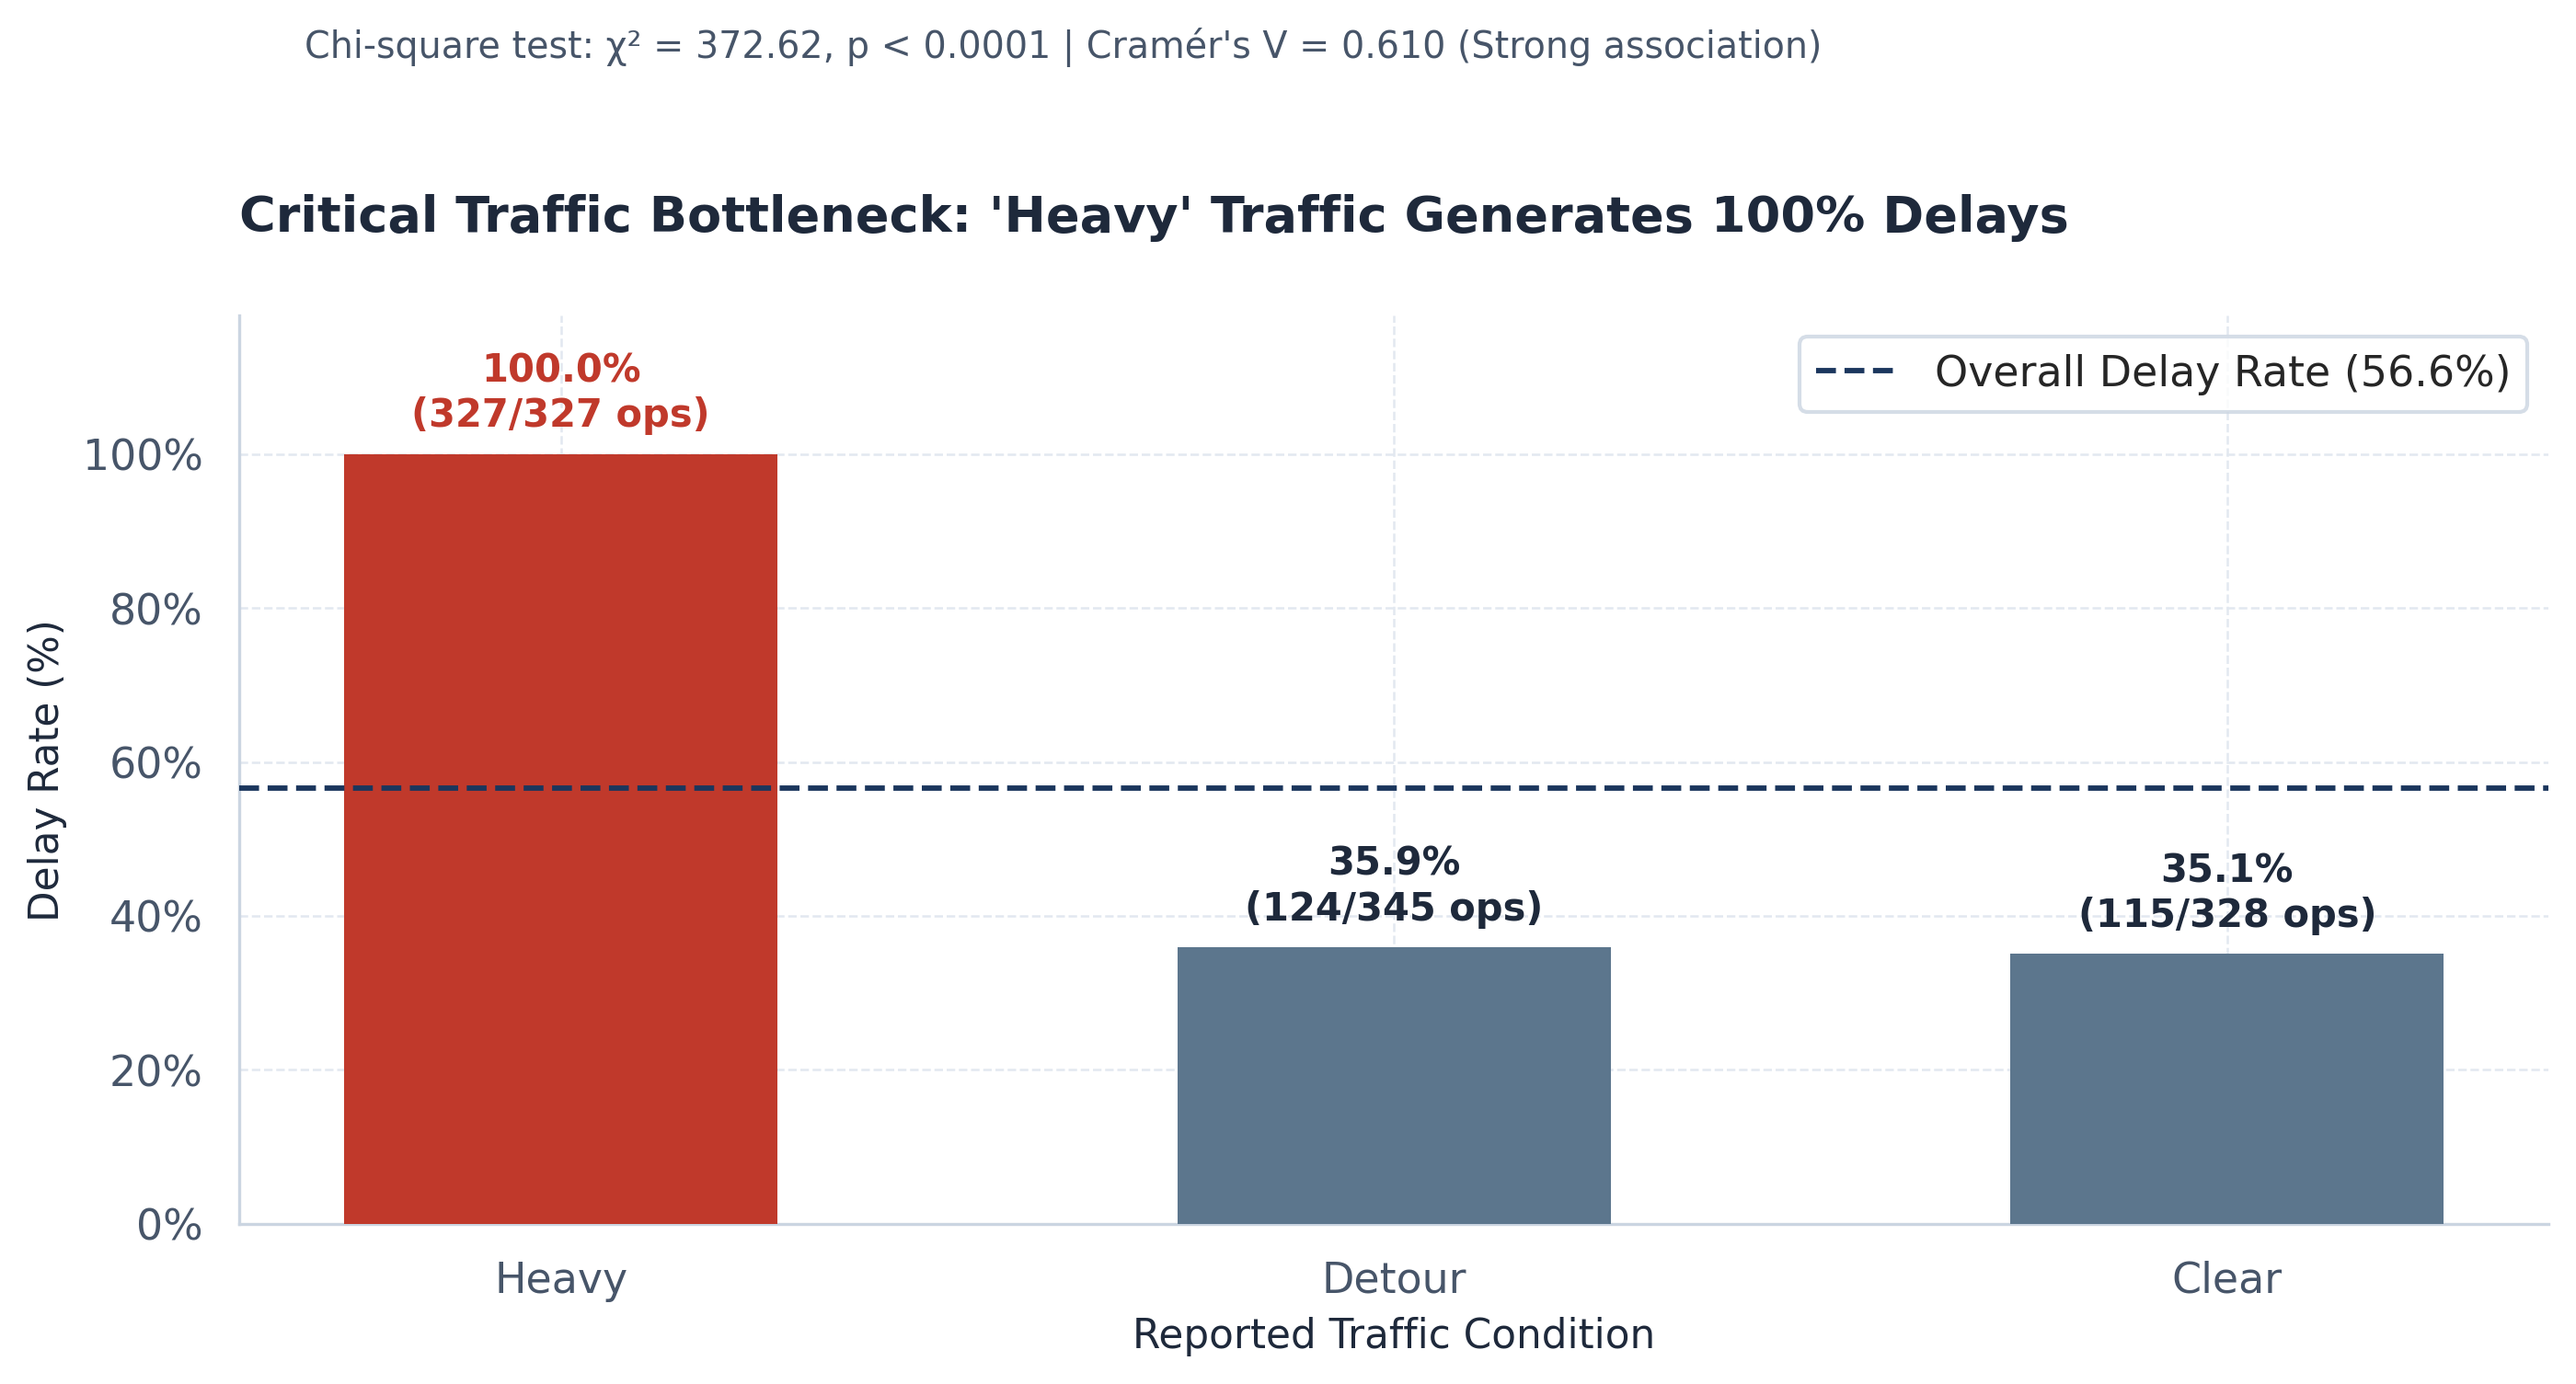
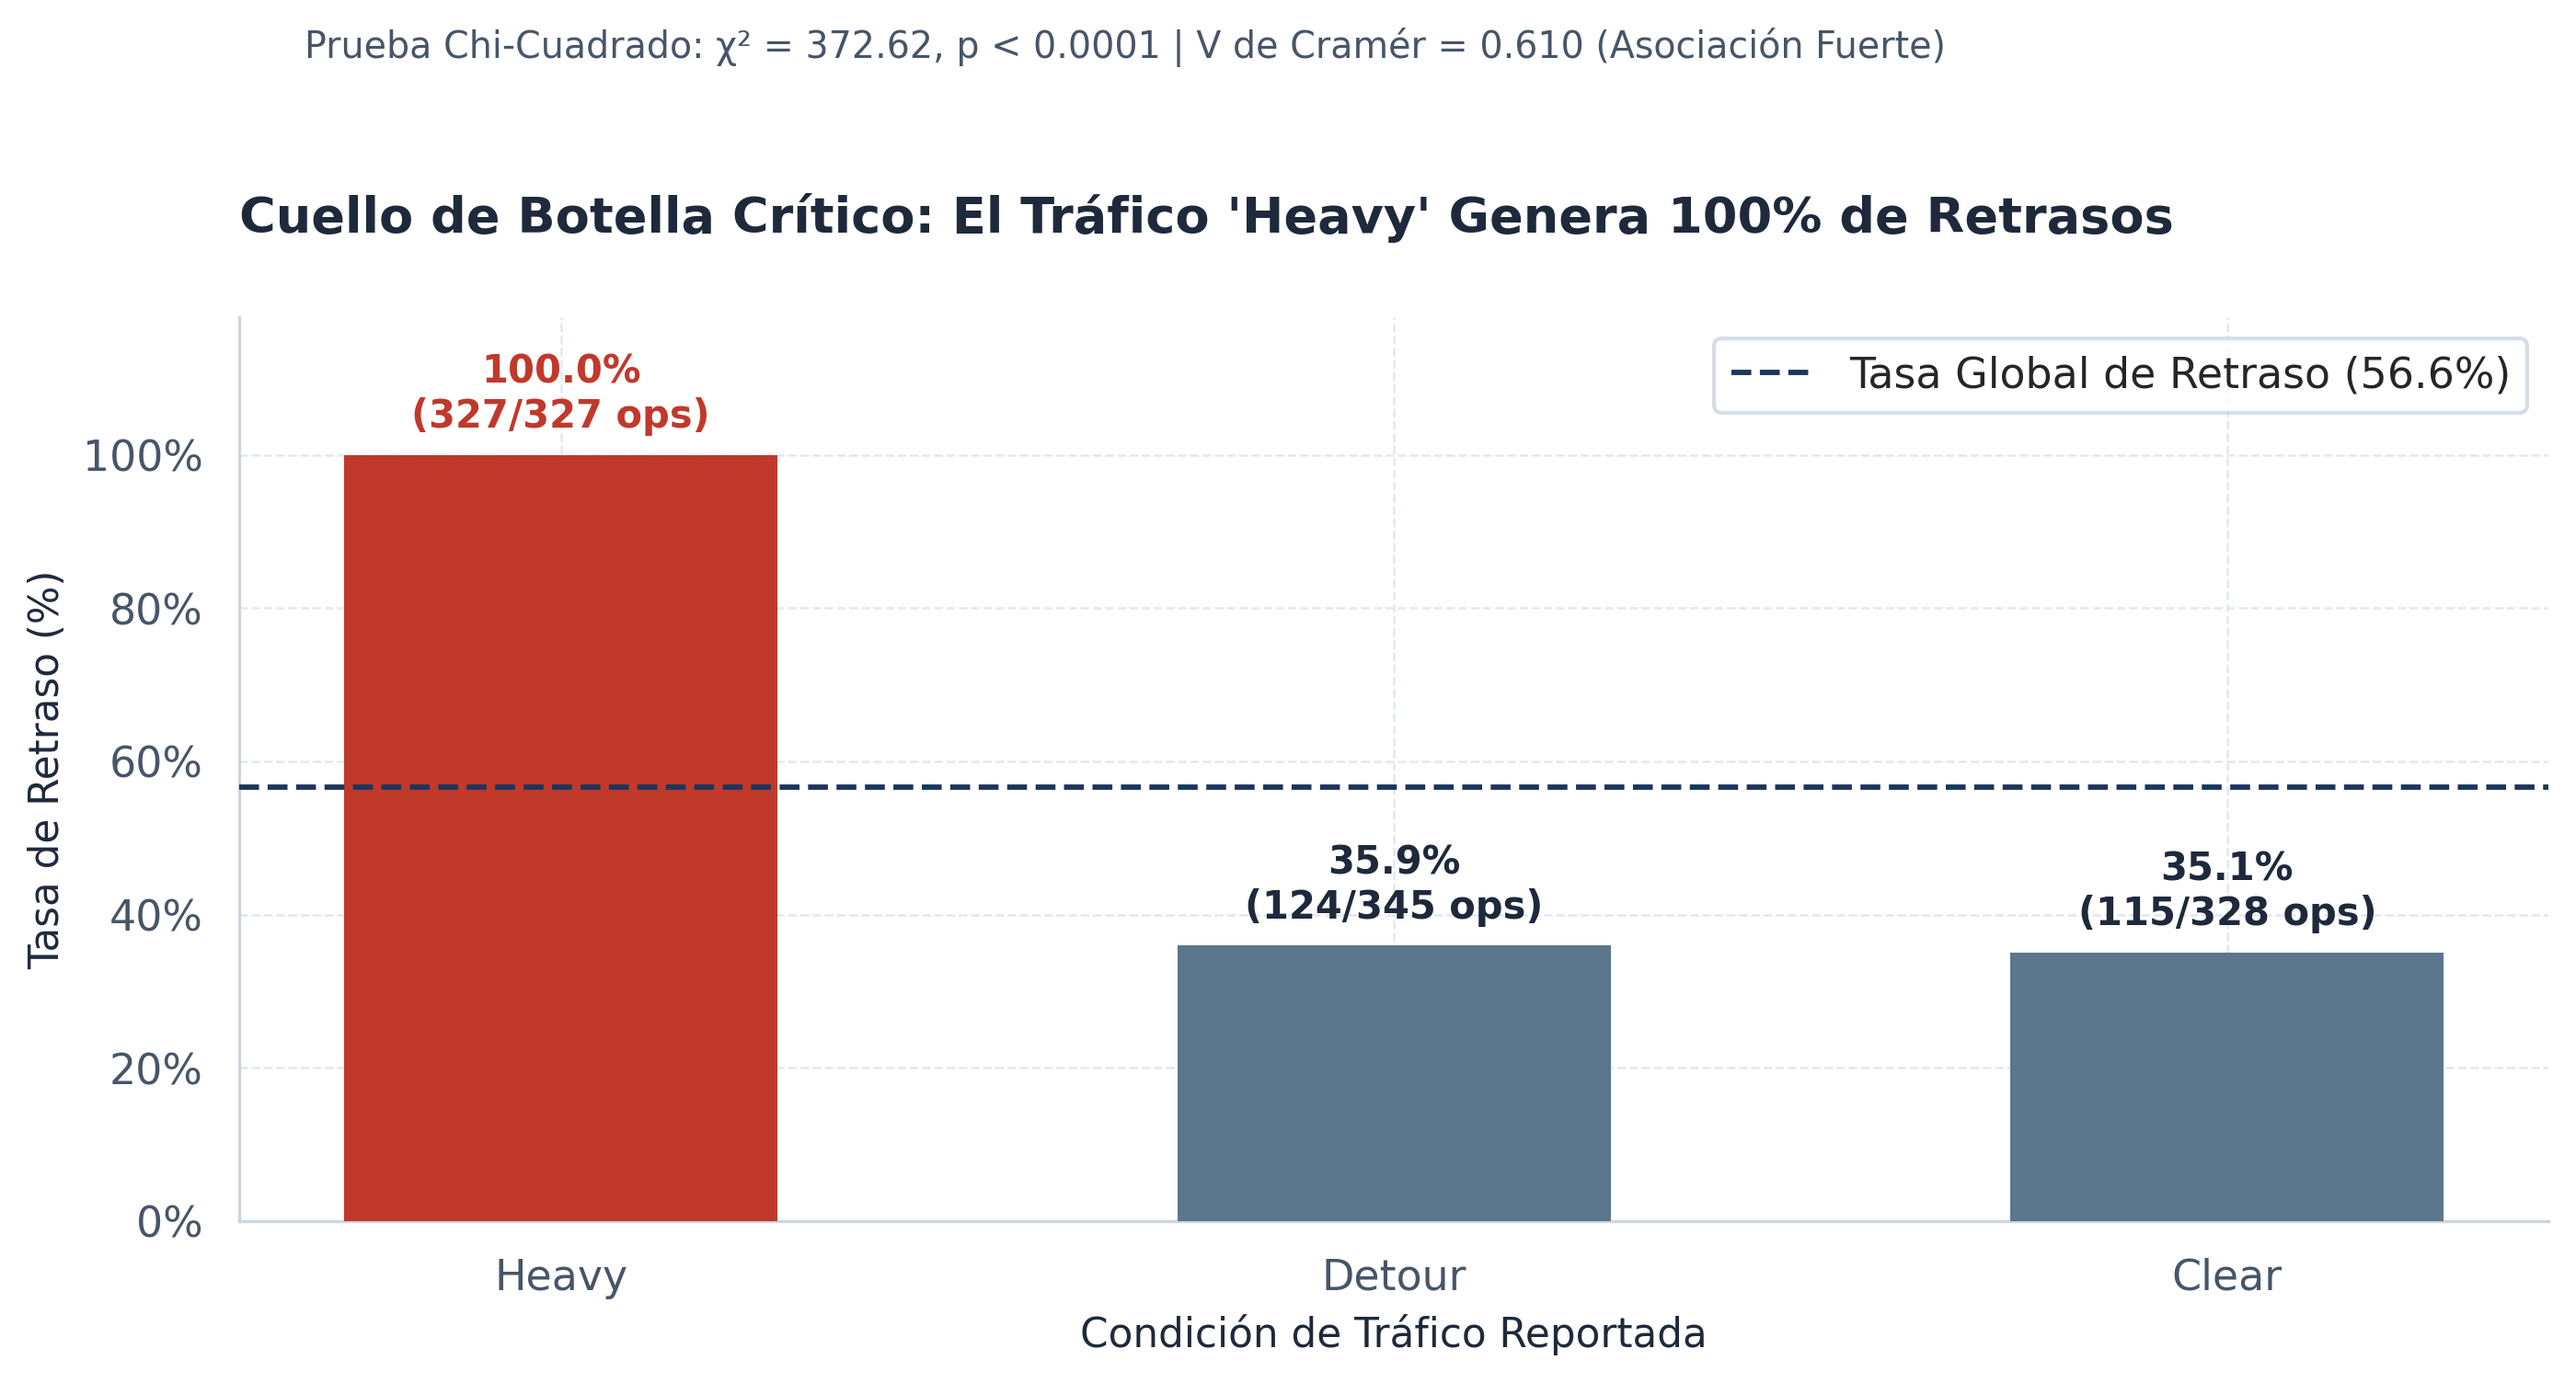
docs(readme): translate text to Spanish and update documentation

diff --git a/src/04_visualizations.py b/src/04_visualizations.py
@@ -117,7 +117,7 @@ def plot_traffic_bottleneck(df: pd.DataFrame, output_dir: Path) -> None:
         linestyle="--",
         linewidth=1.4,
         zorder=4,
-        label=f"Overall Delay Rate ({global_rate:.1f}%)",
+        label=f"Tasa Global de Retraso ({global_rate:.1f}%)",
     )
 
     # Anotaciones directas sobre las barras
@@ -136,15 +136,15 @@ def plot_traffic_bottleneck(df: pd.DataFrame, output_dir: Path) -> None:
 
     ax.set_ylim(0, 118)
     ax.yaxis.set_major_formatter(mtick.PercentFormatter())
-    ax.set_ylabel("Delay Rate (%)")
-    ax.set_xlabel("Reported Traffic Condition")
+    ax.set_ylabel("Tasa de Retraso (%)")
+    ax.set_xlabel("Condición de Tráfico Reportada")
     ax.set_title(
-        "Critical Traffic Bottleneck: 'Heavy' Traffic Generates 100% Delays",
+        "Cuello de Botella Crítico: El Tráfico 'Heavy' Genera 100% de Retrasos",
         loc="left",
         pad=22,
     )
     plt.suptitle(
-        "Chi-square test: χ² = 372.62, p < 0.0001 | Cramér's V = 0.610 (Strong association)",
+        "Prueba Chi-Cuadrado: χ² = 372.62, p < 0.0001 | V de Cramér = 0.610 (Asociación Fuerte)",
         x=0.125,
         y=0.91,
         ha="left",
@@ -159,11 +159,11 @@ def plot_traffic_bottleneck(df: pd.DataFrame, output_dir: Path) -> None:
     out_path = output_dir / "01_traffic_bottleneck_analysis.png"
     plt.savefig(out_path, dpi=300, bbox_inches="tight")
     plt.close(fig)
-    logger.info("Chart saved: %s", out_path.name)
+    logger.info("Gráfico guardado: %s", out_path.name)
 
 
 def plot_pareto_financial_exposure(df: pd.DataFrame, output_dir: Path) -> None:
-    """Chart 2: Pareto Diagram (80/20) of financial exposure by delay cause."""
+    """Gráfico 2: Diagrama de Pareto (80/20) de exposición financiera por causa de retraso."""
     delayed = df[df["Logistics_Delay"] == 1]
     pareto = (
         delayed.groupby("Logistics_Delay_Reason", as_index=False)["User_Transaction_Amount"]
@@ -191,7 +191,7 @@ def plot_pareto_financial_exposure(df: pd.DataFrame, output_dir: Path) -> None:
         zorder=3,
     )
 
-    ax1.set_ylabel("Financial Exposure at Risk (USD)", color=PALETTE["navy"])
+    ax1.set_ylabel("Exposición Financiera en Riesgo (USD)", color=PALETTE["navy"])
     ax1.yaxis.set_major_formatter(mtick.StrMethodFormatter("${x:,.0f}"))
     ax1.set_ylim(0, pareto["Exposure_USD"].max() * 1.25)
 
@@ -249,12 +249,12 @@ def plot_pareto_financial_exposure(df: pd.DataFrame, output_dir: Path) -> None:
     ax2.grid(False)
 
     ax1.set_title(
-        f"Pareto of Financial Exposure by Root Cause (Total at Risk: ${total_exp:,.0f})",
+        f"Pareto de Exposición Financiera por Causa Raíz (Total en Riesgo: ${total_exp:,.0f})",
         loc="left",
         pad=22,
     )
     plt.suptitle(
-        "Governance Finding: 'Unknown' concentrates 25.3% ($42,983) without operational traceability",
+        "Hallazgo de Gobernanza: 'Unknown' concentra el 25.3% ($42,983) sin trazabilidad operativa",
         x=0.125,
         y=0.91,
         ha="left",
@@ -304,27 +304,27 @@ def plot_asset_traffic_heatmap(df: pd.DataFrame, output_dir: Path) -> None:
     )
 
     ax.set_title(
-        "Operational Vulnerability Matrix: Delay Rate (%) by Asset and Traffic Condition",
+        "Matriz de Vulnerabilidad Operativa: Tasa de Retraso (%) por Activo y Tráfico",
         loc="left",
         pad=22,
     )
     plt.suptitle(
-        "Assets ordered by overall failure rate | Uniform saturation at 100% under Heavy traffic",
+        "Activos ordenados por tasa global de fallo | Saturación uniforme al 100% bajo tráfico Heavy",
         x=0.125,
         y=0.91,
         ha="left",
         fontsize=9.5,
         color=PALETTE["text_muted"],
     )
-    ax.set_xlabel("Traffic Condition")
-    ax.set_ylabel("Asset Identifier (Fleet)")
+    ax.set_xlabel("Condición de Tráfico")
+    ax.set_ylabel("Identificador de Activo (Flota)")
     ax.tick_params(axis="y", rotation=0)
 
     plt.tight_layout(rect=[0, 0, 1, 0.89])
     out_path = output_dir / "03_asset_risk_heatmap.png"
     plt.savefig(out_path, dpi=300, bbox_inches="tight")
     plt.close(fig)
-    logger.info("Chart saved: %s", out_path.name)
+    logger.info("Gráfico guardado: %s", out_path.name)
 
 
 def plot_financial_anomaly_quadrants(df: pd.DataFrame, output_dir: Path) -> None:
@@ -338,26 +338,26 @@ def plot_financial_anomaly_quadrants(df: pd.DataFrame, output_dir: Path) -> None
         df["Logistics_Delay"] == 1,
     ]
     choices = [
-        "Critical Anomaly: Delay + High Value ≥ Q3 (145 ops | $65,442)",
-        "Standard Delay: Value < Q3 (421 ops)",
+        "Anomalía Crítica: Retraso + Alto Valor ≥ Q3 (145 ops | $65,442)",
+        "Retraso Estándar: Valor < Q3 (421 ops)",
     ]
     df_plot = df.copy()
     df_plot["Segmento_Riesgo"] = np.select(
-        conditions, choices, default="Operation on Time (434 ops)"
+        conditions, choices, default="Operación a Tiempo (434 ops)"
     )
 
     color_map = {
-        "Critical Anomaly: Delay + High Value ≥ Q3 (145 ops | $65,442)": PALETTE["crimson"],
-        "Standard Delay: Value < Q3 (421 ops)": PALETTE["slate"],
-        "Operation on Time (434 ops)": PALETTE["light_gray"],
+        "Anomalía Crítica: Retraso + Alto Valor ≥ Q3 (145 ops | $65,442)": PALETTE["crimson"],
+        "Retraso Estándar: Valor < Q3 (421 ops)": PALETTE["slate"],
+        "Operación a Tiempo (434 ops)": PALETTE["light_gray"],
     }
 
     fig, ax = plt.subplots(figsize=(10, 6))
 
     for segment in [
-        "Operation on Time (434 ops)",
-        "Standard Delay: Value < Q3 (421 ops)",
-        "Critical Anomaly: Delay + High Value ≥ Q3 (145 ops | $65,442)",
+        "Operación a Tiempo (434 ops)",
+        "Retraso Estándar: Valor < Q3 (421 ops)",
+        "Anomalía Crítica: Retraso + Alto Valor ≥ Q3 (145 ops | $65,442)",
     ]:
         subset = df_plot[df_plot["Segmento_Riesgo"] == segment]
         ax.scatter(
@@ -382,7 +382,7 @@ def plot_financial_anomaly_quadrants(df: pd.DataFrame, output_dir: Path) -> None
     ax.text(
         10.5,
         q3_amount + 6,
-        f"Threshold High Value Q3 = ${q3_amount:.2f}",
+        f"Umbral Alto Valor Q3 = ${q3_amount:.2f}",
         color=PALETTE["navy"],
         fontsize=9,
         fontweight="bold",
@@ -399,15 +399,15 @@ def plot_financial_anomaly_quadrants(df: pd.DataFrame, output_dir: Path) -> None
     ax.set_ylim(90, 520)
     ax.set_xlim(8, 62)
     ax.yaxis.set_major_formatter(mtick.StrMethodFormatter("${x:,.0f}"))
-    ax.set_xlabel("Waiting Time (Minutes)")
-    ax.set_ylabel("Customer Transaction Amount (USD)")
+    ax.set_xlabel("Tiempo de Espera Operativo (Minutos)")
+    ax.set_ylabel("Monto de Transacción del Cliente (USD)")
     ax.set_title(
-        "Segmentation of Compound Anomalies: Financial Exposure vs. Waiting Period",
+        "Segmentación de Anomalías Compuestas: Exposición Financiera vs. Espera",
         loc="left",
         pad=22,
     )
     plt.suptitle(
-        "145 critical operations exceed the 75th percentile for billing ($397) and are confirmed to be delayed",
+        "145 operaciones críticas superan el percentil 75 de facturación ($397) y sufren retraso confirmado",
         x=0.125,
         y=0.91,
         ha="left",
@@ -428,11 +428,11 @@ def plot_financial_anomaly_quadrants(df: pd.DataFrame, output_dir: Path) -> None
     out_path = output_dir / "04_financial_anomaly_quadrants.png"
     plt.savefig(out_path, dpi=300, bbox_inches="tight")
     plt.close(fig)
-    logger.info("Chart saved: %s", out_path.name)
+    logger.info("Gráfico guardado: %s", out_path.name)
 
 
 def main() -> None:
-    """Orchestrates the generation of all executive artifacts (Phase 4)."""
+    """Orquesta la generación de todas las figuras ejecutivas (Fase 4)."""
     try:
         configure_style()
         df = load_enriched_data(ENRICHED_DATA_PATH)
@@ -443,10 +443,10 @@ def main() -> None:
         plot_asset_traffic_heatmap(df, FIGURES_DIR)
         plot_financial_anomaly_quadrants(df, FIGURES_DIR)
 
-        logger.info("Phase 4 completed: 4 executive visualizations exported at 300 DPI.")
+        logger.info("Fase 4 completada: 4 visualizaciones ejecutivas exportadas a 300 DPI.")
 
     except Exception as exc:
-        logger.error("Error during the generation of charts (Phase 4): %s", exc, exc_info=True)
+        logger.error("Error durante la generación de gráficos (Fase 4): %s", exc, exc_info=True)
         sys.exit(1)
 
 

diff --git a/README.md b/README.md
@@ -8,6 +8,7 @@
 ## 📋 Resumen Ejecutivo (*Bottom Line Up Front*)
 
 Este proyecto aplica **Estadística No Paramétrica, Detección de Anomalías Compuestas y Análisis de Pareto (80/20)** sobre 1.000 operaciones de una red logística monitoreada por IoT, con el objetivo de identificar cuellos de botella operativos y cuantificar la exposición financiera por retrasos.
+Fuente del dataset: https://www.kaggle.com/datasets/ziya07/smart-logistics-supply-chain-dataset
 
 ### Indicadores Clave Auditados
 * **Facturación Total Analizada:** `$299,055.00` (1.000 operaciones en 10 activos de transporte).
@@ -67,7 +68,7 @@ Dado que las variables individuales siguen distribuciones acotadas sin *outliers
 
 ```bash
 # 1. Clonar el repositorio
-git clone [https://github.com/TU_USUARIO/smart-logistics-optimization.git](https://github.com/TU_USUARIO/smart-logistics-optimization.git)
+git clone [https://github.com/AleRC99/smart-logistics-optimization]
 cd smart-logistics-optimization
 
 # 2. Crear y activar entorno virtual
